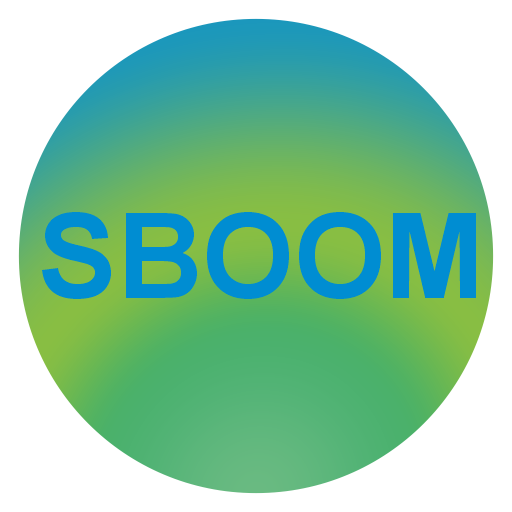
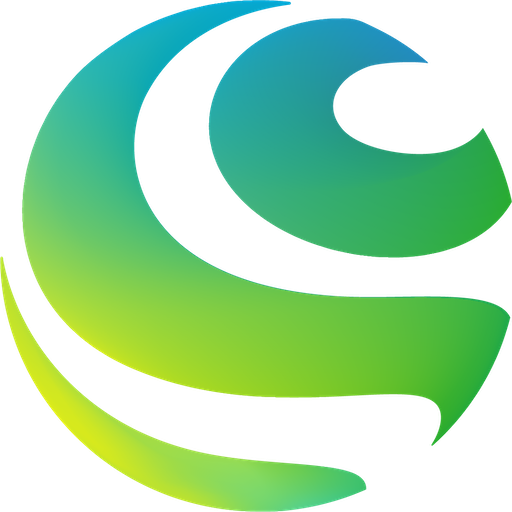
Патч до версии 0.11.1

diff --git a/custom_components/sboom_ha/api.py b/custom_components/sboom_ha/api.py
@@ -15,21 +15,10 @@ from typing import Any, Awaitable, Callable, Optional
 
 import websockets
 
-
-def _detect_headers_kwarg() -> str:
-    """websockets ≥ 13 → additional_headers; legacy → extra_headers."""
-    try:
-        params = inspect.signature(websockets.connect).parameters
-        if "additional_headers" in params:
-            return "additional_headers"
-    except (ValueError, TypeError):
-        pass
-    return "extra_headers"
-
-
-_HEADERS_KWARG = _detect_headers_kwarg()
-
-from ._models import SpeakerState, TrackInfo
+from ._models import BluetoothDevice, QueueTrack, SpeakerState, TrackInfo
+from ._parsers import parse_paired_bt as _parse_paired_bt
+from ._parsers import parse_queue as _parse_queue
+from ._parsers import parse_scanned_bt as _parse_scanned_bt
 from ._parsers import parse_state as _parse_state
 from ._parsers import parse_track as _parse_track
 from ._tlv import decode as _decode_tlv
@@ -37,7 +26,6 @@ from ._tlv import field as _field
 from .const import (
     DEFAULT_PORT,
     DEFAULT_USER_AGENT,
-    KEEPALIVE_INTERVAL_SEC,
     MEDIA_CMD_DISLIKE,
     MEDIA_CMD_LIKE,
     MEDIA_CMD_MUTE,
@@ -58,12 +46,34 @@ from .const import (
     OP_GET_STATE,
     OP_KEEP_ALIVE,
     OP_MEDIA_COMMAND,
+    OP_BT_DEVICE_COMMAND,
+    OP_BT_DISCOVERABLE,
+    OP_FIND_REMOTE,
+    OP_GET_PAIRED_BT,
+    OP_GET_SCANNED_BT,
     OP_PIN_CONNECT,
+    OP_SET_PLAYBACK_SPEED,
     OP_SET_TRACK_POS,
     OP_SET_VOLUME,
     PAIR_BUTTON_TIMEOUT_SEC,
+    PLAYBACK_SPEED_MAX,
+    PLAYBACK_SPEED_MIN,
     TOKEN_TYPE_PIN_AUTH,
 )
+
+
+def _detect_headers_kwarg() -> str:
+    """websockets ≥ 13 → additional_headers; legacy → extra_headers."""
+    try:
+        params = inspect.signature(websockets.connect).parameters
+        if "additional_headers" in params:
+            return "additional_headers"
+    except (ValueError, TypeError):
+        pass
+    return "extra_headers"
+
+
+_HEADERS_KWARG = _detect_headers_kwarg()
 
 _LOGGER = logging.getLogger(__name__)
 
@@ -109,9 +119,13 @@ class SberSpeakerClient:
 
         self._ws: Optional[websockets.WebSocketClientProtocol] = None
         self._listener_task: Optional[asyncio.Task] = None
-        self._keepalive_task: Optional[asyncio.Task] = None
         self._pending: dict[str, asyncio.Future] = {}
         self._lock = asyncio.Lock()
+        # Выставляется при выходе из _listen_loop (обрыв связи). Супервизор
+        # ждёт это событие, чтобы среагировать на разрыв мгновенно, не дожидаясь
+        # следующего keepalive-цикла. connect() его сбрасывает.
+        self._disconnected = asyncio.Event()
+        self._disconnected.set()  # до первого connect() клиент не подключён
 
     # ────────────────────────────── connection ──────────────────────────────
 
@@ -137,6 +151,7 @@ class SberSpeakerClient:
             _HEADERS_KWARG: [("User-Agent", DEFAULT_USER_AGENT)],
         }
         self._ws = await websockets.connect(url, **connect_kwargs)
+        self._disconnected.clear()
         # NB: listener НЕ стартуется автоматически — он конфликтует с прямыми
         # recv()-вызовами в pair_with_button. После завершения pair (или сразу
         # при reconnect к спареной колонке) надо вызвать start_listening().
@@ -151,9 +166,6 @@ class SberSpeakerClient:
         self._listener_task = asyncio.create_task(self._listen_loop(), name="sboom-listener")
 
     async def close(self) -> None:
-        if self._keepalive_task:
-            self._keepalive_task.cancel()
-            self._keepalive_task = None
         if self._listener_task:
             self._listener_task.cancel()
             self._listener_task = None
@@ -163,6 +175,16 @@ class SberSpeakerClient:
             except Exception:  # pragma: no cover
                 pass
             self._ws = None
+        self._disconnected.set()
+
+    @property
+    def disconnected(self) -> asyncio.Event:
+        """Событие обрыва: set когда listen-loop завершился, clear после connect().
+
+        Супервизор ждёт его, чтобы реагировать на разрыв сразу; poll сверяется
+        с ним, чтобы не слать запросы в мёртвый сокет.
+        """
+        return self._disconnected
 
     # ────────────────────────────── pair flow ──────────────────────────────
 
@@ -173,6 +195,12 @@ class SberSpeakerClient:
         """
         if not self._ws:
             raise RuntimeError("not connected")
+        # pair-flow читает ответы прямым recv() в цикле — это конфликтует с
+        # фоновым listen-loop, который перехватил бы те же сообщения.
+        if self._listener_task and not self._listener_task.done():
+            raise RuntimeError(
+                "pair_with_button нельзя вызывать при активном listen-loop"
+            )
 
         # отправляем pair-init (пустой запрос)
         cast = _field(OP_PIN_CONNECT, 2, _field(1, 2, b""))
@@ -253,9 +281,28 @@ class SberSpeakerClient:
         resp = await self._request_response(_field(OP_GET_META_DATA, 2, _field(1, 2, b"")))
         return self._extract_track(resp)
 
-    async def get_queue(self) -> dict[int, Any]:
+    async def get_queue(self) -> list[QueueTrack]:
         resp = await self._request_response(_field(OP_GET_PLAYING_QUEUE, 2, _field(1, 2, b"")))
-        return _decode_tlv(resp)
+        return _parse_queue(resp)
+
+    async def get_paired_bt_devices(self) -> list[BluetoothDevice]:
+        """op=19 — список спаренных Bluetooth-устройств колонки."""
+        resp = await self._request_response(_field(OP_GET_PAIRED_BT, 2, _field(1, 2, b"")))
+        return _parse_paired_bt(resp)
+
+    async def get_scanned_bt_devices(self) -> list[BluetoothDevice]:
+        """op=21 — список найденных при сканировании Bluetooth-устройств."""
+        resp = await self._request_response(_field(OP_GET_SCANNED_BT, 2, _field(1, 2, b"")))
+        return _parse_scanned_bt(resp)
+
+    async def bt_device_command(self, mac: str, cmd: int) -> None:
+        """op=20 — команда BT-устройству по MAC.
+
+        cmd: BT_CMD_CONNECT / BT_CMD_DISCONNECT / BT_CMD_REMOVE.
+        Request — {mac (поле 1), cmd (поле 2, varint)}.
+        """
+        inner = _field(1, 2, mac.encode()) + _field(2, 0, int(cmd))
+        await self._fire_and_forget(_field(OP_BT_DEVICE_COMMAND, 2, inner))
 
     async def set_volume(self, percent: int) -> None:
         percent = max(0, min(100, int(percent)))
@@ -311,8 +358,31 @@ class SberSpeakerClient:
         cast = _field(OP_SET_TRACK_POS, 2, _field(1, 0, int(position_sec)))
         await self._fire_and_forget(cast)
 
+    async def set_playback_speed(self, rate: float) -> None:
+        """Скорость воспроизведения (op=23).
+
+        modifier кодируется как float (wire-type 5, 4 байта LE IEEE-754).
+        varint и nested-JSON ломают playbackSpeedRate колонки в 0.0
+        (research exp_22), поэтому только float и обязательный clamp.
+        """
+        rate = max(PLAYBACK_SPEED_MIN, min(PLAYBACK_SPEED_MAX, float(rate)))
+        cast = _field(OP_SET_PLAYBACK_SPEED, 2, _field(1, 5, rate))
+        await self._fire_and_forget(cast)
+
     async def keep_alive(self) -> None:
         await self._fire_and_forget(_field(OP_KEEP_ALIVE, 2, _field(1, 2, b"")))
+
+    async def find_remote(self) -> None:
+        """op=13 — команда поиска пульта ДУ. Request — пустое сообщение."""
+        await self._fire_and_forget(_field(OP_FIND_REMOTE, 2, _field(1, 2, b"")))
+
+    async def bt_make_discoverable(self) -> None:
+        """op=22 — включить режим Bluetooth-сопряжения.
+
+        Request — пустое сообщение. Длительность окна видимости задаёт
+        прошивка колонки (протоколом не управляется).
+        """
+        await self._fire_and_forget(_field(OP_BT_DISCOVERABLE, 2, _field(1, 2, b"")))
 
     # ────────────────────────────── internals ──────────────────────────────
 
@@ -379,8 +449,20 @@ class SberSpeakerClient:
                         _LOGGER.exception("on_event handler raised")
         except asyncio.CancelledError:
             raise
+        except (websockets.exceptions.ConnectionClosed, OSError) as exc:
+            # Штатный обрыв долгоживущего WS (колонка перезагрузилась, Wi-Fi
+            # мигнул, idle-disconnect). Не исключение — INFO без traceback.
+            _LOGGER.info("WS closed (%s) — переподключение", exc.__class__.__name__)
         except Exception:
             _LOGGER.exception("listen loop crashed")
+        finally:
+            # Разбудить супервизор: связь мертва, нужно реконнектиться.
+            self._disconnected.set()
+            # Отменить ожидающие запросы, чтобы они не висели до таймаута.
+            for fut in self._pending.values():
+                if not fut.done():
+                    fut.set_exception(ConnectionError("WS closed"))
+            self._pending.clear()
 
     # ────────────────────────────── parsers ──────────────────────────────
 
@@ -393,6 +475,21 @@ class SberSpeakerClient:
     def parse_track(raw: bytes) -> Optional[TrackInfo]:
         """Public wrapper — делегирует в _parsers.parse_track."""
         return _parse_track(raw)
+
+    @staticmethod
+    def parse_queue(raw: bytes) -> list[QueueTrack]:
+        """Public wrapper — делегирует в _parsers.parse_queue."""
+        return _parse_queue(raw)
+
+    @staticmethod
+    def parse_paired_bt(raw: bytes) -> list[BluetoothDevice]:
+        """Public wrapper — делегирует в _parsers.parse_paired_bt."""
+        return _parse_paired_bt(raw)
+
+    @staticmethod
+    def parse_scanned_bt(raw: bytes) -> list[BluetoothDevice]:
+        """Public wrapper — делегирует в _parsers.parse_scanned_bt."""
+        return _parse_scanned_bt(raw)
 
     # backwards-compat алиасы для внутренних вызовов в этом классе
     _extract_state = staticmethod(_parse_state)

diff --git a/custom_components/sboom_ha/lyrics_client.py b/custom_components/sboom_ha/lyrics_client.py
@@ -11,7 +11,7 @@ import aiohttp
 _LOGGER = logging.getLogger(__name__)
 
 LRCLIB_BASE = "https://lrclib.net/api"
-USER_AGENT = "sboom_ha/HomeAssistant (+https://github.com/dzerik/sboom_ha)"
+USER_AGENT = "sboom_ha/HomeAssistant"
 
 # Парсер LRC-строк: [MM:SS.cc] текст  (или [MM:SS.ccc])
 _LRC_LINE = re.compile(r"^\[(\d{1,2}):(\d{2})\.(\d{2,3})](.*)$", flags=re.MULTILINE)

diff --git a/custom_components/sboom_ha/__init__.py b/custom_components/sboom_ha/__init__.py
@@ -20,6 +20,7 @@ PLATFORMS: list[Platform] = [
     Platform.SWITCH,
     Platform.SELECT,
     Platform.SENSOR,
+    Platform.BINARY_SENSOR,
     Platform.CAMERA,
 ]
 